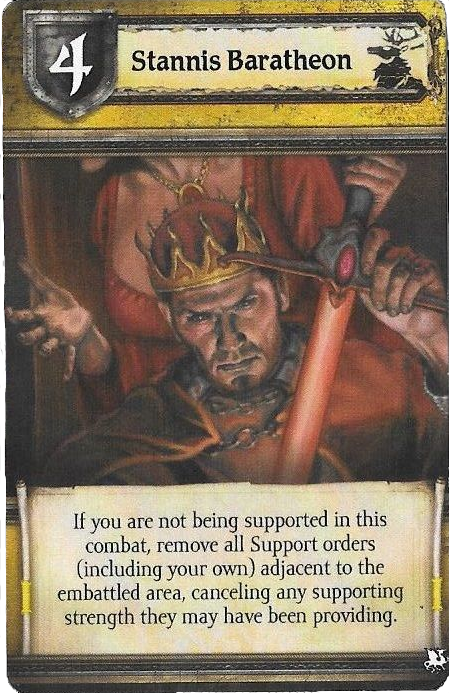
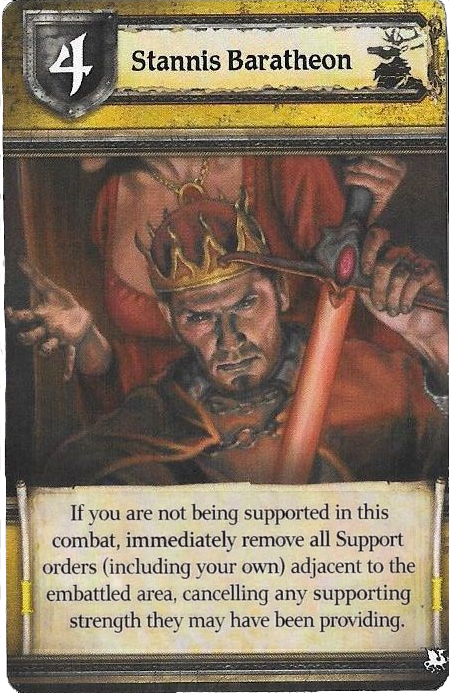
Make Stannis Baratheon DwD an immediate ability

Changed region(s): [[0.0624, 0.697, 0.9666, 0.9394]]

diff --git a/agot-bg-game-server/src/common/ingame-game-state/game-data-structure/house-card/StannisBaratheonDwDHouseCardAbility.ts b/agot-bg-game-server/src/common/ingame-game-state/game-data-structure/house-card/StannisBaratheonDwDHouseCardAbility.ts
@@ -1,20 +1,20 @@
 import HouseCardAbility from "./HouseCardAbility";
 import House from "../House";
 import HouseCard from "./HouseCard";
-import CancelHouseCardAbilitiesGameState from "../../action-game-state/resolve-march-order-game-state/combat-game-state/cancel-house-card-abilities-game-state/CancelHouseCardAbilitiesGameState";
+import ImmediatelyHouseCardAbilitiesResolutionGameState from "../../action-game-state/resolve-march-order-game-state/combat-game-state/immediately-house-card-abilities-resolution-game-state/ImmediatelyHouseCardAbilitiesResolutionGameState";
 import SupportOrderType from "../order-types/SupportOrderType";
 import RaidSupportOrderType from "../order-types/RaidSupportOrderType";
 import BetterMap from "../../../../utils/BetterMap";
 
 export default class StannisBaratheonDwDHouseCardAbility extends HouseCardAbility {
-  cancel(
-    cancelResolutionState: CancelHouseCardAbilitiesGameState,
+  immediatelyResolution(
+    immediatelyResolution: ImmediatelyHouseCardAbilitiesResolutionGameState,
     house: House,
     _houseCard: HouseCard
   ): void {
-    const combatGameState = cancelResolutionState.combatGameState;
+    const combatGameState = immediatelyResolution.combatGameState;
     const actionGameState = combatGameState.actionGameState;
-    const game = cancelResolutionState.game;
+    const game = immediatelyResolution.game;
     if (
       combatGameState.supporters.entries.every(
         ([_supporter, supported]) => supported != house
@@ -32,7 +32,7 @@ export default class StannisBaratheonDwDHouseCardAbility extends HouseCardAbilit
         .map(({ r }) => r);
 
       regions.forEach((r) =>
-        cancelResolutionState.combatGameState.actionGameState.removeOrderFromRegion(
+        immediatelyResolution.combatGameState.actionGameState.removeOrderFromRegion(
           r,
           true,
           undefined,
@@ -43,10 +43,6 @@ export default class StannisBaratheonDwDHouseCardAbility extends HouseCardAbilit
       combatGameState.supporters = new BetterMap();
     }
 
-    cancelResolutionState.childGameState.onHouseCardResolutionFinish(house);
-  }
-
-  isCancelAbility(): boolean {
-    return true;
+    immediatelyResolution.childGameState.onHouseCardResolutionFinish(house);
   }
 }
